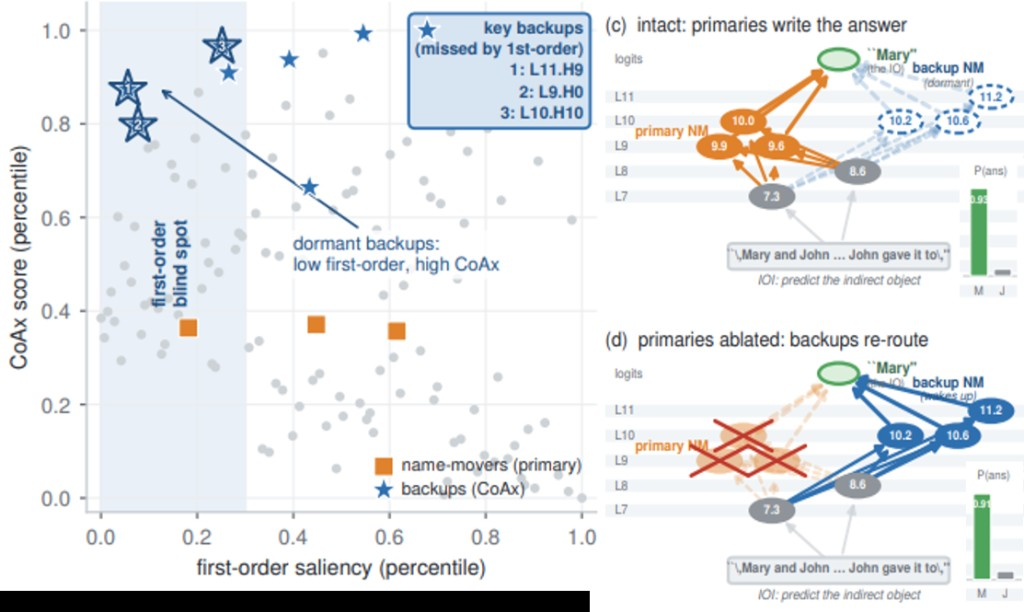
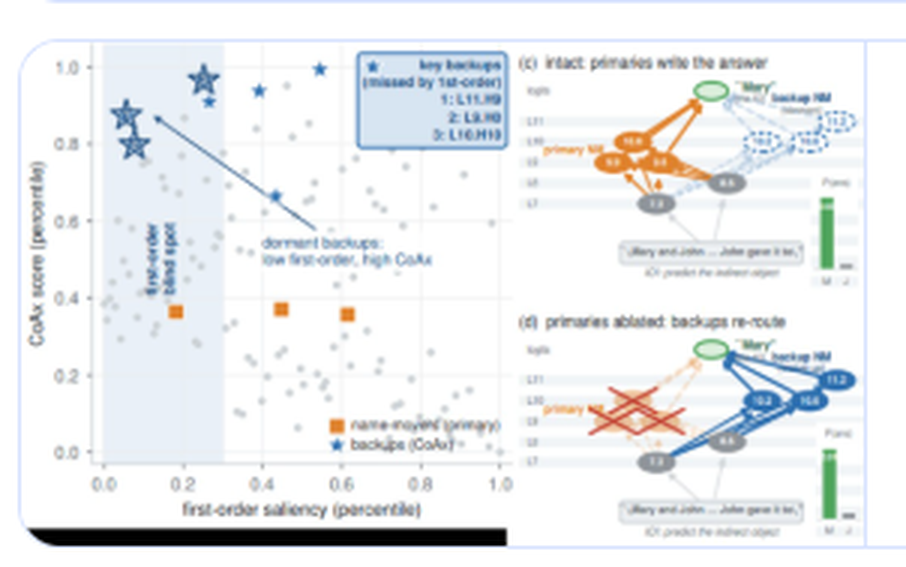
Fix CoAx publication figure black corner and use contain fit

diff --git a/index.html b/index.html
@@ -280,7 +280,7 @@
           </article>
 
           <article class="pub-card">
-            <img src="./assets/coax_main.png" alt="Conditional Co-Ablation project figure" loading="lazy">
+            <img class="coax-main" src="./assets/coax_main.png" alt="Conditional Co-Ablation project figure" loading="lazy">
             <div class="pub-main">
               <h3>Conditional Co-Ablation: Recovering Self-Repair Backups in Transformer Circuits</h3>
               <p class="authors"><span class="me">Zhiren Gong</span>, Zihao Zeng, Chau Yuen, Wei Yang Bryan Lim</p>

diff --git a/styles.css b/styles.css
@@ -399,7 +399,8 @@ h1 {
   border-right: 1px solid #d8e3ff;
 }
 
-.pub-card img.paper6-overview {
+.pub-card img.paper6-overview,
+.pub-card img.coax-main {
   object-fit: contain;
   background: #fff;
 }
